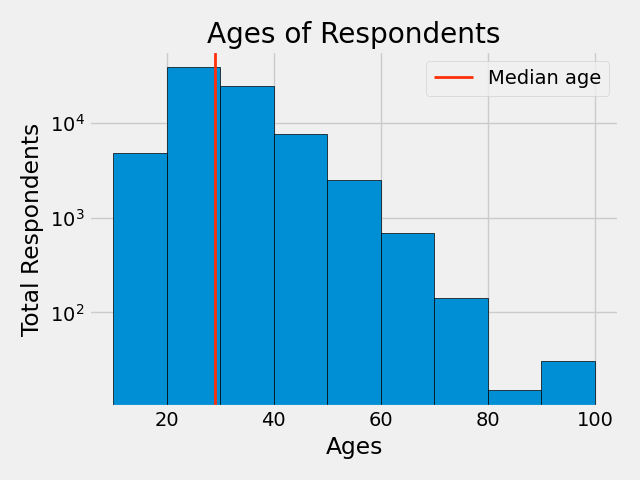
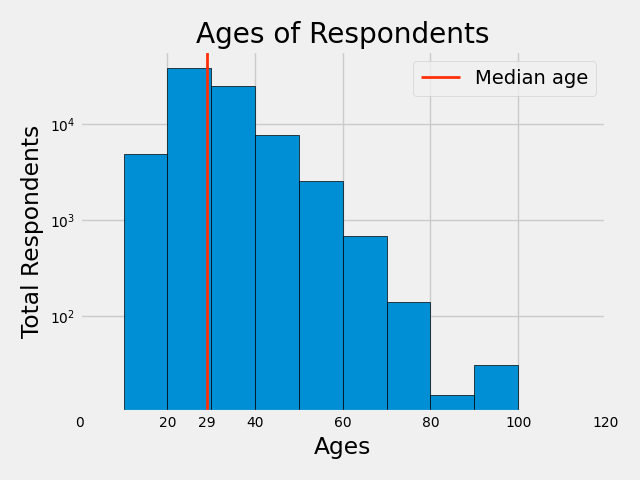
Customized xtick for median age

diff --git a/6.Histogram/using_csv_data/code.py b/6.Histogram/using_csv_data/code.py
@@ -1,4 +1,5 @@
 import pandas as pd
+import numpy as np
 import matplotlib.pyplot as plt
 
 plt.style.use('fivethirtyeight')
@@ -21,6 +22,10 @@ plt.legend()
 plt.title('Ages of Respondents')
 plt.xlabel('Ages')
 plt.ylabel('Total Respondents')
+
+# adding extra xtick at the median age
+plt.xticks(list(plt.xticks()[0]) + [29])
+plt.tick_params(labelsize=10)
 
 plt.tight_layout()
 
